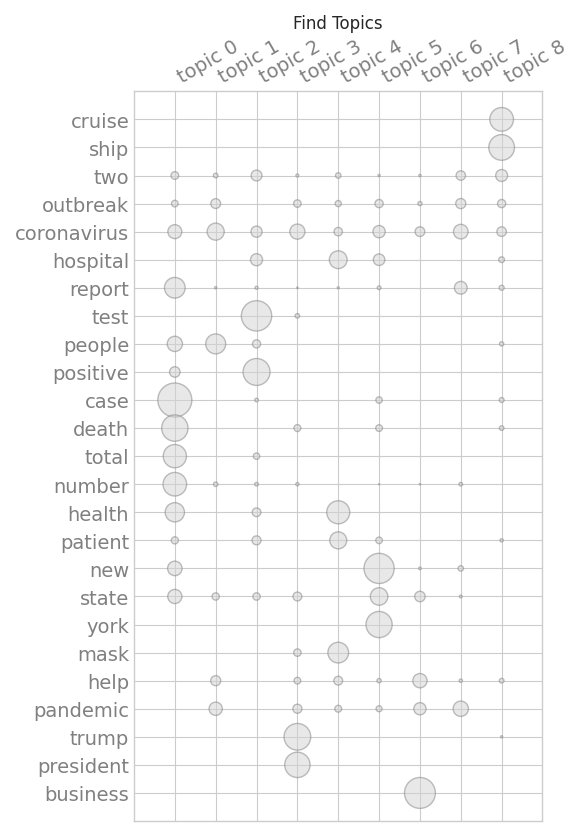
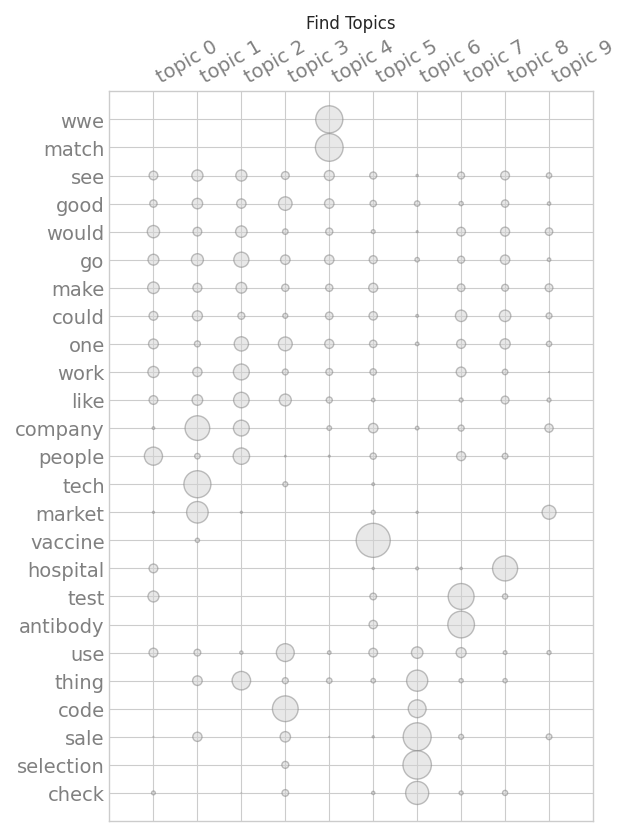
nmf topic analysis

diff --git a/src/NMF_TopicAnalysis.py b/src/NMF_TopicAnalysis.py
@@ -3,7 +3,7 @@ sys.path.append("src/")
 import spacy
 from sklearn.decomposition import NMF
 import read_data
-from datetime import datetime
+from datetime import datetime, timedelta
 import os
 import textacy.corpus
 from textacy.vsm import Vectorizer
@@ -16,14 +16,16 @@ import matplotlib.pyplot as plt
 import scipy
 import pandas as pd
 import unicodedata
+import time
+import shutil
 np.random.seed(0)
 
 
 # TODO should probably just inherit from model or something...
 class TopicAnalyser:
-    def __init__(self):
+    def __init__(self, n_topics):
         self.vectorizer = self.get_vectorizer()
-        self.topic_model = self.get_nmf_model()
+        self.topic_model = self.get_nmf_model(n_topics)
         self.graphicspath = "src/figures/"
         self.image_type = ".png"
 
@@ -54,14 +56,14 @@ class TopicAnalyser:
         )
         return vectorizer
 
-    def get_nmf_model(self):
+    def get_nmf_model(self, n_topics):
         # TODO how can we get this to converge?
-        model = textacy.tm.TopicModel("nmf", n_topics=9)
+        model = textacy.tm.TopicModel("nmf", n_topics=n_topics, max_iter=10000)
         return model
 
     def get_custom_stopwords(self):
         """ remove news outlet names and the like """
-        custom = ["say", "news", "reuters", "cbcca", "getty", "reuter"]
+        custom = ["say", "news", "reuters", "cbcca", "getty", "reuter", "get"]
         custom_stopwords = stopwords.words('english') + ["-PRON-"] + custom
         return custom_stopwords
 
@@ -85,7 +87,7 @@ class TopicAnalyser:
             for doc in df["nlp"]]
         if fit:
             self.vectorizer.fit(my_terms_list)
-        doc_term_matrix = self.vectorizer.fit_transform(my_terms_list)
+        doc_term_matrix = self.vectorizer.transform(my_terms_list)
         # print("Some Terms:")
         # print(self.vectorizer.terms_list[:10])
 
@@ -167,31 +169,74 @@ class TopicAnalyser:
         topic_df = pd.DataFrame(all_topics, columns=columns)
         return topic_df, topic_names
 
-    def get_topics_per_day(self, all_topics):
+    def get_topics_per_day(self, all_topics, topic_names):
         all_topics = all_topics.loc[:, ["publication_date", "topic_0"]]
         df_gb = all_topics.groupby(by=["publication_date", "topic_0"])
         res = (pd.DataFrame(df_gb["topic_0"].
-            agg(["sum", "mean"])).
+            agg(["sum"])).
             reset_index().
             rename({"topic_0": "main_topic"}, axis=1))
+
+        # this is assuming we do day by day
+        total_day = res.groupby(by=["publication_date"])["sum"].sum()[0]
+        res["mean"] = res["sum"]/total_day
         # set nicer topic names
         res["main_topic"] = res["main_topic"].replace(topic_names)
         # "+str(datetime.now())+"
         res.to_csv("src/TopicAnalysis/topic_frequency.csv", index=False)
         return res
 
-    # # Just in case we want to remove certain types of token
-    # def remove_tokens_on_match(self, doc):
-    #     indexes = []
-    #     for index, token in enumerate(doc):
-    #         # TODO we don't really need to filter for PUNCT, bc we already do regex
-    #         if (token.pos_  in ('PUNCT', "SPACE")):
-    #             indexes.append(index)
-    #     np_array = doc.to_array([LOWER, POS, ENT_TYPE, IS_ALPHA])
-    #     np_array = numpy.delete(np_array, indexes, axis = 0)
-    #     doc2 = Doc(doc.vocab, words=[t.text for i, t in enumerate(doc) if i not in indexes])
-    #     doc2.from_array([LOWER, POS, ENT_TYPE, IS_ALPHA], np_array)
-    #     return doc2
+def run_and_save(start_date, end_date, articles_per_period, max_length):
+    c_date = start_date
+
+    # Name 
+    # run_name = "s_" + start_date.strftime("%d_%m_%Y") + "_e_" \
+    #     + end_date.strftime("%d_%m_%Y") + "_app_" + str(articles_per_period) \
+    #     + "_ml_" + str(max_length) + "_" + datetime.now().strftime("d_%d_%m_t_%H_%M")
+    # run_name = datetime.now().strftime("d_%d_%m_t_%H_%M")
+    run_name = "ta_run_" + datetime.now().strftime("d_%d_%m_t_%H_%M")
+    print(f"RUN NAME: {run_name}")
+
+    folder_path = "data/0TopicAnalysis/"+run_name
+    if os.path.isdir(folder_path):
+        shutil.rmtree(folder_path)
+    os.mkdir(folder_path)
+
+    print("Start run from date: " + start_date.strftime("%d_%m_%Y") + " to date: " + end_date.strftime("%d_%m_%Y"))
+    print("Articles per period: " + str(articles_per_period))
+    print("Max Length per article: " + str(max_length))
+
+    start_time = time.process_time()
+
+    # Increase until we hit the last day
+    while c_date < end_date:
+        print("Running day:",c_date.strftime("%d_%m_%Y"))
+        print("Loading Data...\t", str(datetime.now()))
+        df = read_data.get_body_df(
+            start_date=c_date,
+            end_date=c_date,
+            articles_per_period=articles_per_period, #700,
+            max_length=max_length
+        )
+
+        df = ta.apply_nlp(df)
+        doc_term_matrix = ta.get_doc_term_matrix(df)
+        doc_topic_matrix = ta.get_doc_topic_matrix(doc_term_matrix)
+        all_topics, topic_names = ta.get_top_n_topics(df, doc_topic_matrix)
+        ta.visualize("Find Topics", doc_term_matrix)
+        topics_per_day = ta.get_topics_per_day(all_topics, topic_names)
+        # print(topics_per_day)
+
+        file_name = c_date.strftime("%d_%m_%Y")
+        topics_per_day.to_csv(folder_path + "/" + file_name +".csv", index=False)
+
+            # Increase the day
+        c_date += timedelta(days=1)
+    
+    print("Multiple day run finished")
+    elapsed_time = time.process_time() - start_time
+    print("Time elapsed: " + str(round(elapsed_time,2)) + " seconds")
+    pass
 
 
 if __name__ == "__main__":
@@ -205,36 +250,24 @@ if __name__ == "__main__":
     if not os.path.isdir("../experiments"):
         os.mkdir("../experiments")
 
-    ta = TopicAnalyser()
-    start_date = datetime.strptime("2019-11-01", "%Y-%m-%d")
-    # start_date = datetime.strptime("2020-04-01", "%Y-%m-%d")
+    ta = TopicAnalyser(n_topics=10)
+    # start_date = datetime.strptime("2019-11-01", "%Y-%m-%d")
+    start_date = datetime.strptime("2020-04-01", "%Y-%m-%d")
     end_date = datetime.strptime("2020-04-06", "%Y-%m-%d")
 
     # # Pass with representative fitting data to find and name topics
-    # print("Loading Data...\t", str(datetime.now()))
-    # representative_df = read_data.get_representative_df(
-    #     n_samples=10000,
-    #     start_date=start_date,
-    #     end_date=end_date
-    # )
-    # representative_df = ta.apply_nlp(representative_df)
-    # rep_doc_term_matrix = ta.get_doc_term_matrix(representative_df, fit=True)
-    # rep_doc_topic_matrix = ta.get_doc_topic_matrix(rep_doc_term_matrix, fit=True)
-    # ta.visualize("Find Topics", rep_doc_term_matrix)
-
-    # Pass with specific data set
     print("Loading Data...\t", str(datetime.now()))
-    df = read_data.get_body_df(
+    representative_df = read_data.get_representative_df(
+        n_samples=1000,
         start_date=start_date,
-        end_date=end_date,
-        # articles_per_period=1000, #700,
-        # max_length=1000
+        end_date=end_date
     )
-    df = ta.apply_nlp(df)
-    doc_term_matrix = ta.get_doc_term_matrix(df)
-    doc_topic_matrix = ta.get_doc_topic_matrix(doc_term_matrix, fit=True)
-    all_topics, topic_names = ta.get_top_n_topics(df, doc_topic_matrix)
-    ta.visualize("Find Topics", doc_term_matrix)
-    topics_per_day = ta.get_topics_per_day(all_topics)
-    print(topics_per_day)
+    representative_df = ta.apply_nlp(representative_df)
+    rep_doc_term_matrix = ta.get_doc_term_matrix(representative_df, fit=True)
+    rep_doc_topic_matrix = ta.get_doc_topic_matrix(rep_doc_term_matrix, fit=True)
+    ta.visualize("Find Topics", rep_doc_term_matrix)
+    print("Found our topics...\t", str(datetime.now()))
 
+    # Run day by day
+    run_and_save(start_date, end_date, articles_per_period=None,
+        max_length=1000)
